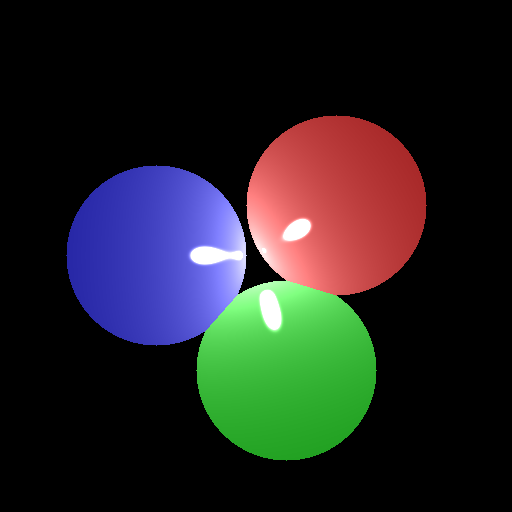
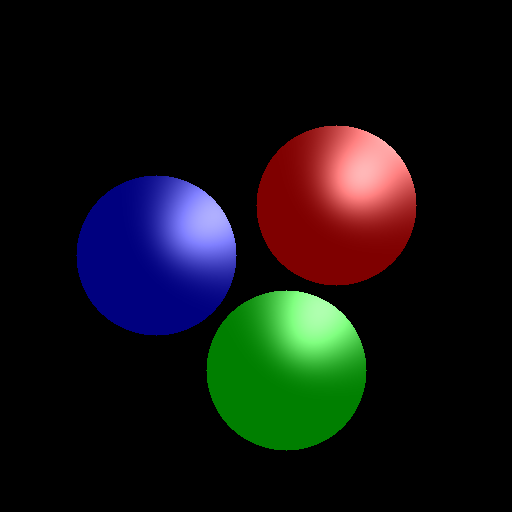
A bit of tinkering

Changed region(s): [[0.125, 0.2188, 0.8438, 0.9062]]

diff --git a/src/Raytracer.cpp b/src/Raytracer.cpp
@@ -82,8 +82,8 @@ core::Color Raytracer::trace(core::Ray& ray, int recursiveStep)
 
         // PHONG lighting model
         double a = 1.0;
-        double b = 0.01;
-        double c = 0.0001;
+        double b = 1.0;
+        double c = 0.1;
 
         core::Vector V = ray.getDirection();    // observation vector
         core::Vector L = collision - light->getPosition(); // light incidence vector
@@ -109,8 +109,8 @@ core::Color Raytracer::trace(core::Ray& ray, int recursiveStep)
 
         double lightning_factor = 1.0 / (a + b*di + c*di*di);
         local = local + closestObject->getMaterial().ambient + light->getColor() * lightning_factor
-        //+ closestObject->getMaterial().diffuse * light->getColor()  * dotNL * 0.004
-        + closestObject->getMaterial().specular * light->getColor() * pow(dotVR, 180);
+        //+ closestObject->getMaterial().diffuse * light->getColor()  * dotNL * 0.0005
+        + closestObject->getMaterial().specular * light->getColor() * pow(dotVR, 4) * 0.008;
         ;
     }
 
